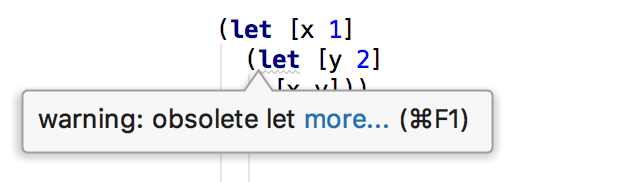
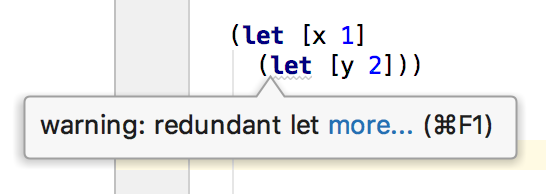
obsolete -> redundant

diff --git a/README.md b/README.md
@@ -18,8 +18,7 @@ your life. Let clj-kondo help you tidy your code.
 ## Features
 
 * inline def warnings
-* obsolete do warnings
-* obsolete let warnings
+* redundant do and let warnings
 * arity errors across namespaces
 * private function call errors
 
@@ -81,7 +80,7 @@ Lint a directory:
 
 ``` shellsession
 $ clj-kondo --lint src
-src/clj_kondo/test.cljs:7:1: warning: obsolete do
+src/clj_kondo/test.cljs:7:1: warning: redundant do
 src/clj_kondo/vars.clj:291:3: error: Wrong number of args (1) passed to clj-kondo.vars/analyze-arities
 ```
 
